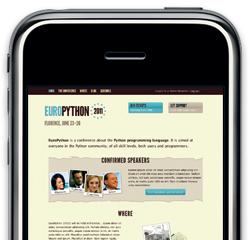
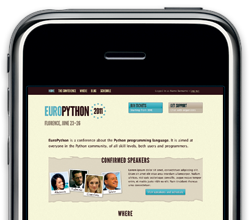
Home page content tweaks.

diff --git a/europython/mockups/index.html b/europython/mockups/index.html
@@ -92,22 +92,30 @@
 
 </div>        
 
-<section class="speakers-teaser clearfix">
+<section class="teaser">
 
-    <div class="container">
-        <h2>Confirmed <span>Speakers</span></h2>
+    <div class="container clearfix">
         
         <div class="span-6">
+        
+            <h2><span>Confirmed</span> Speakers</h2>
+        
             <img src="static/i/speakers-ph.png" alt="" width="390" height="160" />    
-        </div>
-    
-        <div class="span-6 last">
-            <p><b>Lorem ipsum</b> dolor sit amet, consectetuer adipiscing elit. Etiam sit amet elit vitae arcu interdum ullamcorper. Nullam ultrices, nisi quis scelerisque convallis, augue neque tempor enim, et mattis justo nibh eu elit.  Nam tincidunt rhoncus urna consectetuer.</p>
-            
+                        
             <div class="button">
                 <a href="./intern.html">View <b>speakers</b> and <b>schedule</b></a>     
             </div>
-           
+                
+        </div>
+    
+        <div class="europython-is span-6 last">
+
+            <h2><span>EuroPython</span> is&hellip;</h2>
+        
+            <p>
+               An occasion to follow interesting <a href="./intern.html">talks</a>, do some <a href="./intern.html">networking</a>, <a href="./intern.html">recruite</a> quilified staff or be recruited by great firms, and last but not least follow funky <a href="./intern.html">PyEvents</a>.
+            </p>    
+                       
         </div>
     
     </div>
@@ -149,18 +157,31 @@
         <section class="where clearfix">
             <h2>Let’s meet in <span>Florence</span></h2>
             
-            <div class="span-7">
-                <p>EuroPython 2011 will be held in Florence at <a href="#"><b>Hotel Mediterraneo</b></a>... ipsum dolor sit amet, consectetuer adipiscing elit. Nullam ultrices, nisi quis scelerisque convallis, augue neque tempor enim, et mattis justo nibh eu elit. Phasellus condimentum bibendum dolor. Mauris sed ipsum. Phasellus in diam. Nam sapien ligula, consectetuer id, hendrerit in, cursus sed, leo. </p>
+            <div class="span-6">
+                <p>EuroPython 2011 will be held in Florence at <a href="#"><b>Hotel Mediterraneo</b></a>... ipsum dolor sit amet, consectetuer adipiscing elit. Nullam ultrices, nisi quis scelerisque convallis, augue et mattis justo nibh eu elit neque. Nam sapien ligula, consectetuer id, hendrerit in, cursus sed, leo. </p>
+                
+            </div>
+
+            <div class="span-6 last">
+               <img src="static/i/home-where.png" alt="" width="390" height="200" />         
+            </div>
+
+            
+            <div class="span-6">
 
                 <div class="button">
-                    <a href="./intern.html">Check <b>map</b> and <b>accommodation</b></a>     
+                    <a href="./intern.html">Check <b>map</b> and <b>accommodation</b></a>&nbsp;
                 </div>
-
 
             </div>
 
-            <div class="span-5 last">
-               <img src="static/i/home-where.png" alt="" width="310" height="200" />         
+            
+            <div class="span-6 last">
+               
+                <div class="button">
+                    <a href="./intern.html"><b>Visiting</b> and <b>sightseeing</b> Florence</a>
+                </div>
+                
             </div>
 
 
@@ -209,7 +230,7 @@
             </div>
 
             <div class="span-4 last">
-                <img class="block" src="static/i/iphone.png" alt="" width="250" height="240" />
+                <img class="block" src="static/i/iphone.png" alt="" width="250" height="220" />
             </div>
 
         </section>
@@ -265,13 +286,12 @@
 
 </div>
 
-<footer class="darker">
+<footer>
     <div class="container clearfix">        
 
 
             <div class="span-3">
-                <nav>
-<!--                     <h5><span>The</span> site</h5> -->
+                <nav class="darker">
                     <h5>&nbsp;</h5>
                     <ul>
                         <li><a href="./index.html">Home</a></li>
@@ -290,7 +310,7 @@
 
 
             <div class="span-5">
-                <div class="twitter">
+                <div class="darker twitter">
                     <h5><span>Overheard on</span> Twitter</h5>
                     <ul>
                         <li>Lorem ipsum dolor sit amet, <a href="#">consectetuer</a> adipiscing elit.</li>                        
@@ -331,7 +351,7 @@
 
             <div class="span-8">
 
-                <div class="legalese">
+                <div class="darker legalese">
                     <p>&copy; 2007&ndash;2011 <a href="http://python.it/">Python Italia</a>, with <a href="http://creativecommons.org/licenses/by-nd/3.0/">some rights reserved</a>.</p> 
                 </div>
 
@@ -339,7 +359,7 @@
 
             <div class="span-4 last">
 
-                <div class="feeds">
+                <div class="darker feeds">
                     <img src="./static/i/icon-feed.png" alt="" width="12" height="12" />&nbsp;<a href="#">Recent blog posts</a>
                 </div>
 

diff --git a/europython/mockups/static/s/base.css b/europython/mockups/static/s/base.css
@@ -1085,12 +1085,28 @@ footer nav ul {
     
 }
 
-section.speakers-teaser {
+section.teaser {
     padding: 20px 0 0 0;
+    
 }
 
+.where p,
+.europython-is p {
+    
+    font-size: 16px;
+    line-height: 30px;
+            
+    color: #635443;    
+}
+
+
+.europython-is a {
+    font-weight: bold;
+}
+
+
 section.where h2,
-section.speakers-teaser h2 {
+section.teaser h2 {
 
 	font: normal 36px/36px "League Gothic", "Arial Narrow", sans-serif;	
     margin: 0 0 20px 0;
@@ -1101,7 +1117,7 @@ section.speakers-teaser h2 {
 }
 
 section.where h2 span,
-section.speakers-teaser h2 span {
+section.teaser h2 span {
 
     color: #4895a3;
 }
@@ -1113,26 +1129,26 @@ section h2 {
 
 }
 
-section.speakers-teaser h2 img {
+section.teaser h2 img {
     vertical-align: top;
 }
 
 
 
 section.where,
-section.speakers-teaser {
+section.teaser {
     margin: 0 0 40px 0;
 }
 
-section.speakers-teaser {
-    background: transparent url(../i/speakers.png)  center top repeat-x;
+section.teaser {
+    background: transparent url(../i/speakers-2.jpg)  center top repeat-x;
     
-    min-height: 260px;
+    min-height: 300px;
     
 }
 
 section.where p,
-section.speakers-teaser p {
+section.teaser p {
     margin: 0 0 10px 0;
 
 }
